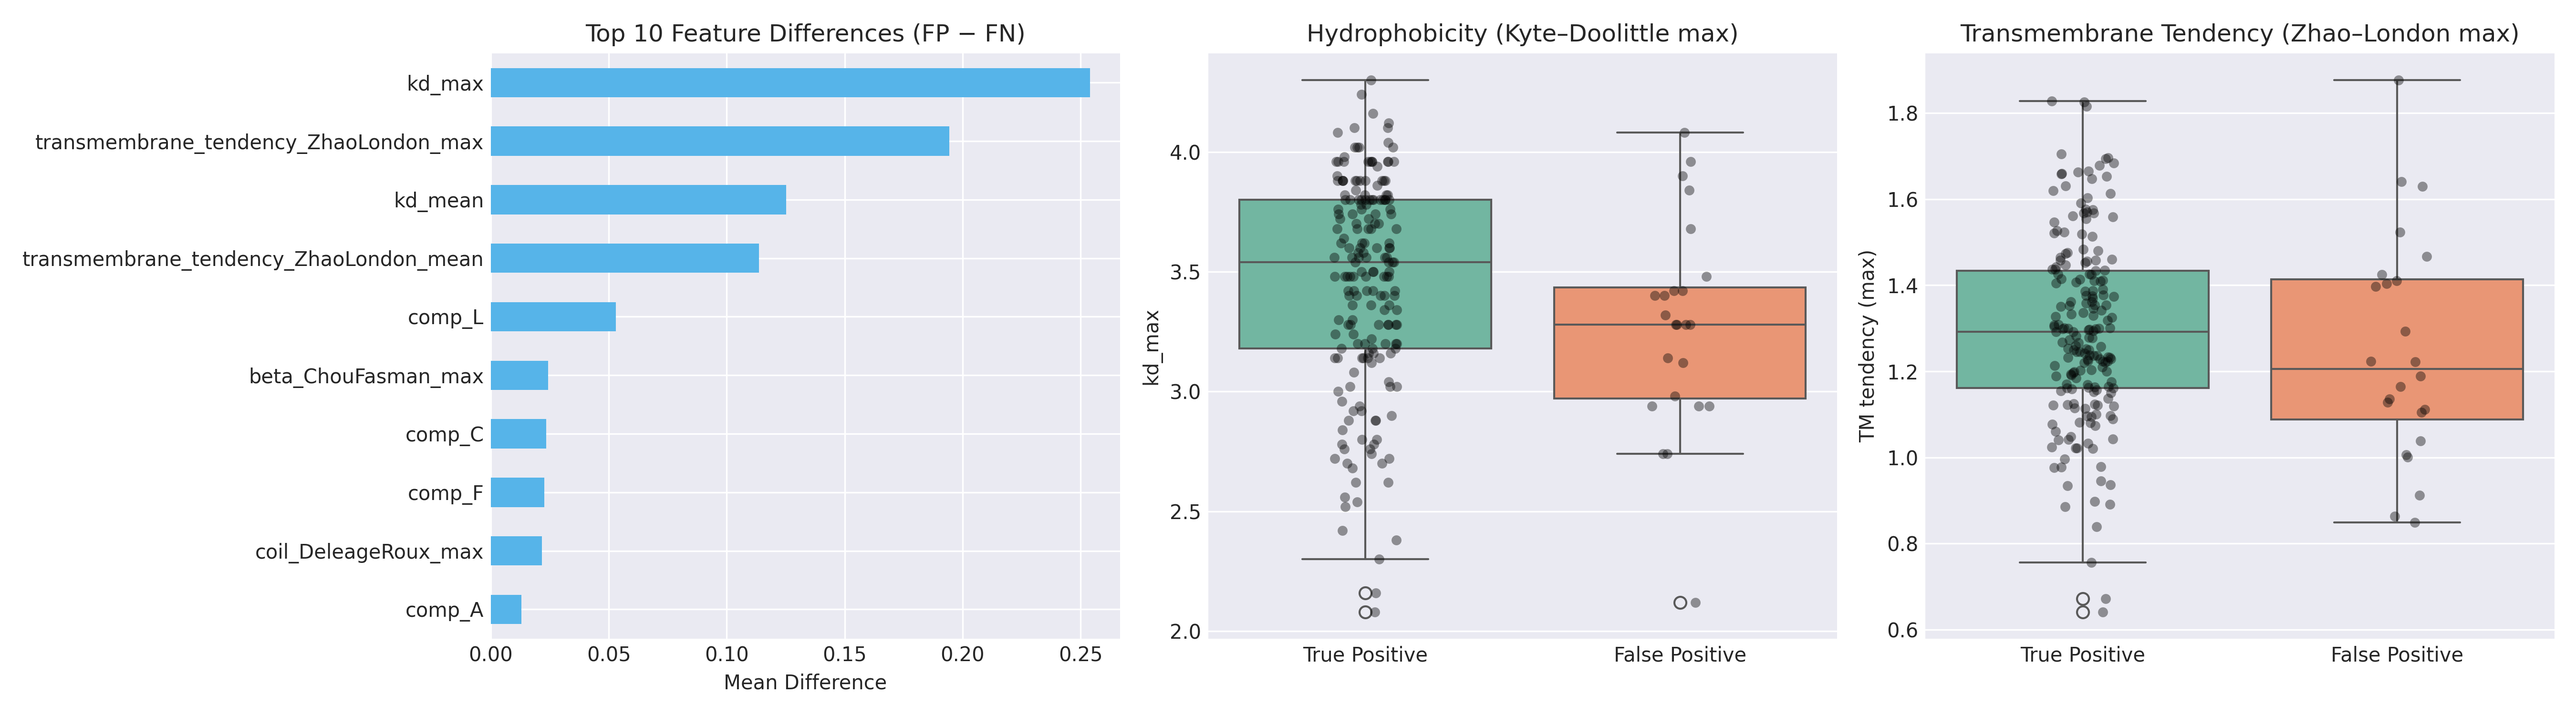
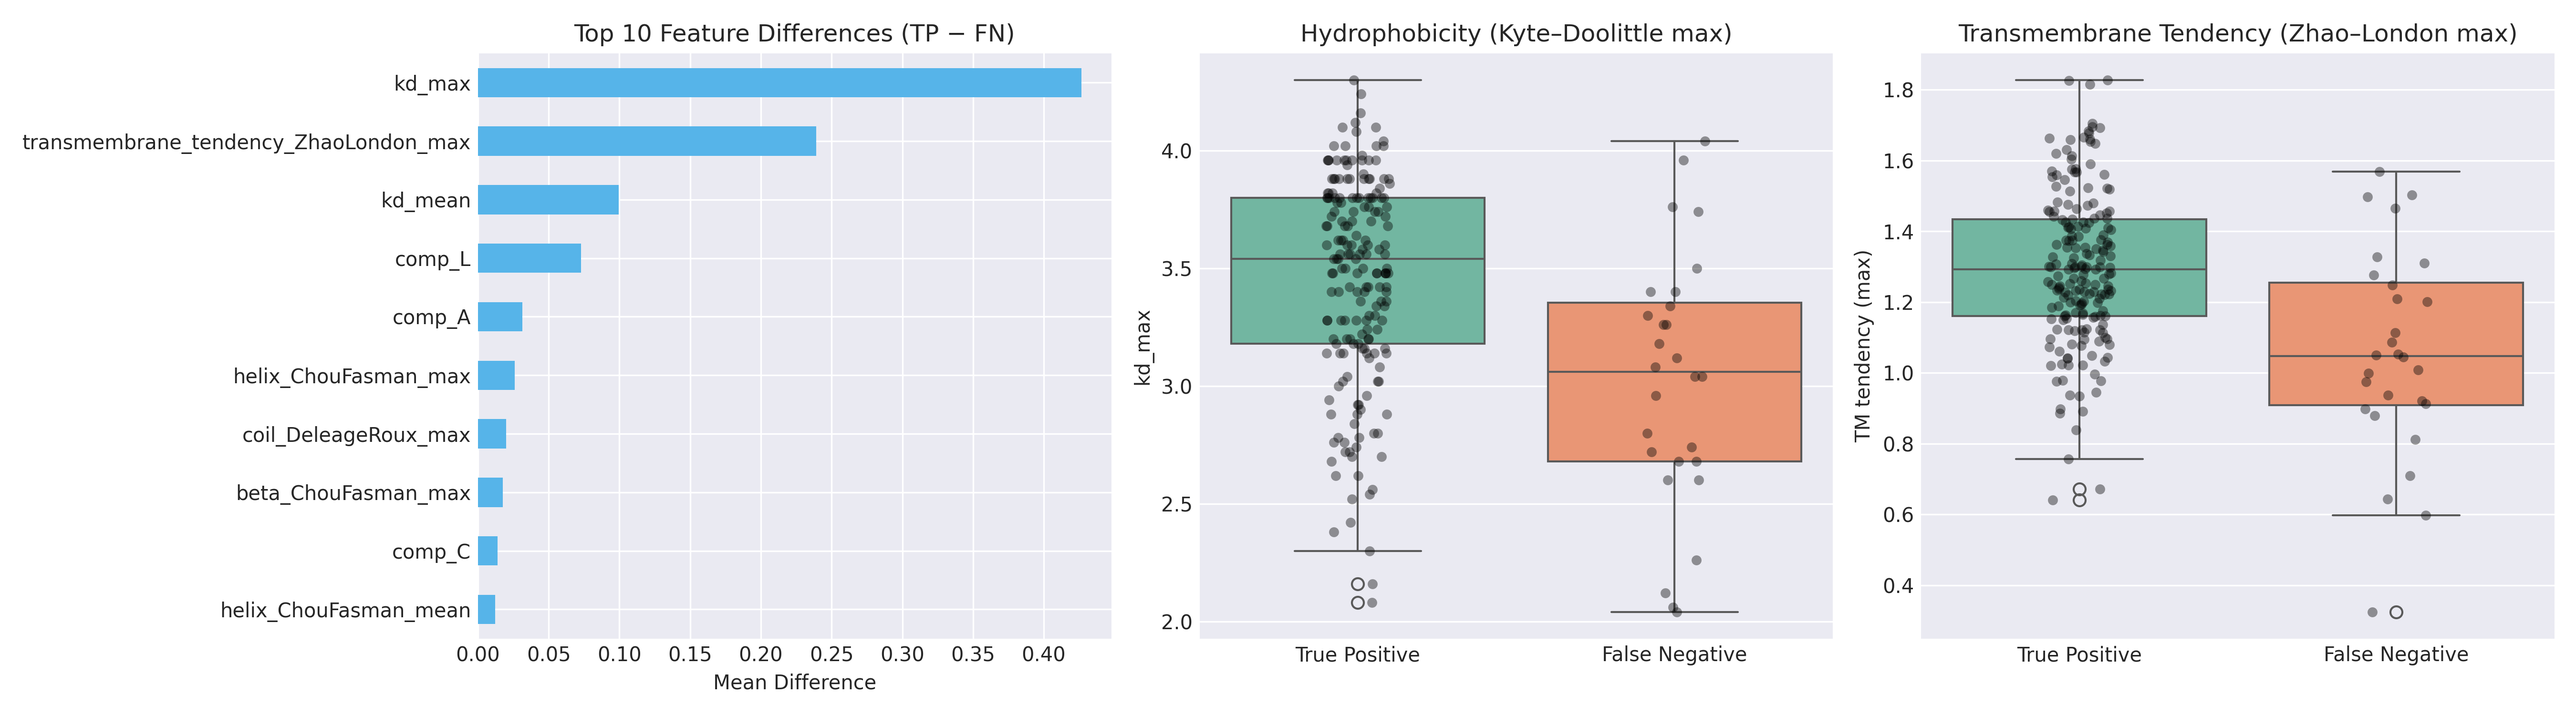
Graphs are fixed!

diff --git a/SVM_optimization/test_and_visualize_benchmark.py b/SVM_optimization/test_and_visualize_benchmark.py
@@ -134,19 +134,19 @@ print("\nIt means that negative but model predict positive!!")
 fig, axes = plt.subplots(1, 3, figsize=(18, 5))
 plt.style.use("seaborn-v0_8-darkgrid")
 
-diff_fp_fn = (group_means_df["FP"] - group_means_df["FN"]).sort_values(ascending=False)
-top_diff = diff_fp_fn.head(10)
+diff_tp_fn = (group_means_df["TP"] - group_means_df["FN"]).sort_values(ascending=False)
+top_diff = diff_tp_fn.head(10)
 top_diff.plot(kind="barh", ax=axes[0], color="#56B4E9")
-axes[0].set_title("Top 10 Feature Differences (FP − FN)")
+axes[0].set_title("Top 10 Feature Differences (TP − FN)")
 axes[0].set_xlabel("Mean Difference")
 axes[0].invert_yaxis() # That is for the ranking of the features
 
 if "kd_max" in feat_df.columns:
     kd_tp = feat_df.iloc[tp_idx]["kd_max"]
-    kd_fp = feat_df.iloc[fp_idx]["kd_max"]
+    kd_fn = feat_df.iloc[fn_idx]["kd_max"]
     kd_box = pd.DataFrame({
-        "Value": np.concatenate([kd_tp, kd_fp]),
-        "Group": ["True Positive"] * len(kd_tp) + ["False Positive"] * len(kd_fp)
+        "Value": np.concatenate([kd_tp, kd_fn]),
+        "Group": ["True Positive"] * len(kd_tp) + ["False Negative"] * len(kd_fn)
     })
     sns.boxplot(data=kd_box, x="Group", y="Value", palette="Set2", ax=axes[1])
     sns.stripplot(data=kd_box, x="Group", y="Value", color="black", alpha=0.4, jitter=True, ax=axes[1])
@@ -156,10 +156,10 @@ if "kd_max" in feat_df.columns:
 
 if "transmembrane_tendency_ZhaoLondon_max" in feat_df.columns:
     tm_tp = feat_df.iloc[tp_idx]["transmembrane_tendency_ZhaoLondon_max"]
-    tm_fp = feat_df.iloc[fp_idx]["transmembrane_tendency_ZhaoLondon_max"]
+    tm_fn = feat_df.iloc[fn_idx]["transmembrane_tendency_ZhaoLondon_max"]
     tm_box = pd.DataFrame({
-        "Value": np.concatenate([tm_tp, tm_fp]),
-        "Group": ["True Positive"] * len(tm_tp) + ["False Positive"] * len(tm_fp)
+        "Value": np.concatenate([tm_tp, tm_fn]),
+        "Group": ["True Positive"] * len(tm_tp) + ["False Negative"] * len(tm_fn)
     })
     sns.boxplot(data=tm_box, x="Group", y="Value", palette="Set2", ax=axes[2])
     sns.stripplot(data=tm_box, x="Group", y="Value", color="black", alpha=0.4, jitter=True, ax=axes[2])

diff --git a/SVM_optimization/README.md b/SVM_optimization/README.md
@@ -105,12 +105,19 @@ Average signal peptide (cleavage site) lengths:
 *Figure 1.* Comparison of signal peptide lengths for **True Positives (TP)** and **False Negatives (FN)**.
 
 ### Feature-Level Analysis
+
 **Top 10 Feature Differences (FP − FN):**
-FP sequences show elevated hydrophobicity (Kyte–Doolittle) and higher transmembrane tendency.
-This aligns with the hypothesis that **hydrophobic N-terminal transmembrane helices** often lead to FP predictions.
+
+In the TP–FN comparison, the largest feature differences were observed for `Kyte–Doolittle hydrophobicity (kd_max)` and `Transmembrane tendency (Zhao–London max)`.
+This indicates that correctly predicted signal peptides (TPs) generally exhibit stronger hydrophobic cores and higher transmembrane-like character than the false negatives (FNs).
+Conversely, FNs often correspond to genuine SPs with weaker or less pronounced hydrophobic regions, leading the model to miss them during prediction.
+
 ![Feature Comparison](feature_comparison.png)
 
-*Figure 2.* The figure shows the top 10 features that causes FP and box plot (TP & FP) for `kd_max` & `Zhao_London_max`. 
+*Figure 2.* The figure shows the top 10 feature differences between TP and FN, and box plot (TP & FN) for `kd_max` & `Zhao_London_max`. 
+
+Box plots for `kd_max` and `transmembrane_tendency_ZhaoLondon_max` show that True Positives (TPs) generally exhibit higher values than False Negatives (FNs).
+This trend confirms that the model relies strongly on hydrophobic and transmembrane-like features for signal peptide recognition, while genuine SPs with weaker hydrophobic cores tend to be misclassified as non-SPs.
 
 ### Taxonomic Distribution
 
